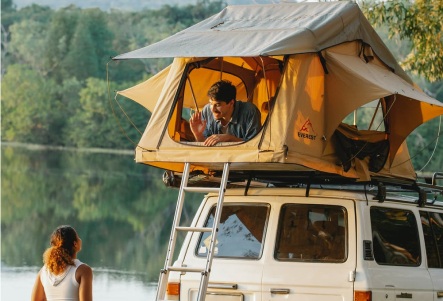
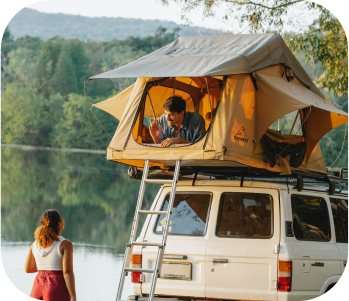
photo section ready

diff --git a/build/css/main.css b/build/css/main.css
@@ -204,9 +204,10 @@ select {
 
 .container {
   position: relative;
-  max-width: 1170px;
+  max-width: 1230px;
   width: 100%;
   margin: 0 auto;
+  padding: 0 30px;
 }
 .container-margin-top {
   margin-top: 135px;
@@ -218,12 +219,14 @@ select {
 }
 @media (max-width: 1024px) {
   .container {
-    max-width: 918px;
+    padding: 0 20px;
+    max-width: 958px;
   }
 }
 @media (max-width: 360px) {
   .container {
-    max-width: 318px;
+    padding: 0 21px;
+    max-width: 360px;
   }
 }
 
@@ -791,4 +794,103 @@ select {
     width: 318px;
   }
 }
[1 lines of base64/hex data omitted]
+.travel-photo__container {
+  display: flex;
+  flex-direction: column;
+  align-items: center;
+  max-width: 1920px;
+  text-align: center;
+}
+.travel-photo__subtitle {
+  width: 418px;
+}
+.travel-photo__list {
+  height: 963px;
+  margin-top: 100px;
+  display: flex;
+  flex-direction: column;
+  gap: 3.1152647975%;
+  width: 100%;
+}
+.travel-photo__list-line {
+  display: flex;
+  gap: 1.6129032258%;
+  justify-content: center;
+  height: 301px;
+}
+.travel-photo__item {
+  flex-grow: 0;
+  flex-shrink: 1;
+}
+.travel-photo__item_width_25 {
+  flex-basis: 23.7903225806%;
+}
+.travel-photo__item_width_2 {
+  flex-basis: 18.7095698925%;
+}
+.travel-photo__img {
+  width: 100%;
+  height: 100%;
+  border-radius: 50px;
+  object-fit: cover;
+  object-position: center;
+}
+@media (max-width: 1024px) {
+  .travel-photo .travel-photo__container {
+    max-width: 1024px;
+  }
+  .travel-photo .travel-photo__list {
+    gap: 3.1152647975%;
+  }
+  .travel-photo .travel-photo__list-line {
+    gap: 2.0325203252%;
+  }
+  .travel-photo .travel-photo__item_width_25 {
+    flex-basis: 31.9786585366%;
+  }
+  .travel-photo .travel-photo__item_width_2 {
+    flex-basis: 23.4756097561%;
+  }
+  .travel-photo .travel-photo__item_2, .travel-photo .travel-photo__item_7, .travel-photo .travel-photo__item_13 {
+    display: none;
+  }
+}
+@media (max-width: 700px) {
+  .travel-photo .travel-photo__subtitle {
+    width: 100%;
+  }
+  .travel-photo .travel-photo__container {
+    max-width: 360px;
+  }
+  .travel-photo .travel-photo__list {
+    margin-top: 50px;
+    height: 366px;
+    gap: 4.9180327869%;
+  }
+  .travel-photo .travel-photo__list-line {
+    height: 110px;
+    gap: 5.6603773585%;
+  }
+  .travel-photo .travel-photo__list-line_middle {
+    gap: 3.1446540881%;
+  }
+  .travel-photo .travel-photo__list-line_bottom {
+    gap: 3.1446540881%;
+  }
+  .travel-photo .travel-photo__img {
+    border-radius: 20px;
+  }
+  .travel-photo .travel-photo__item_width_25 {
+    flex-basis: 47.1698113208%;
+  }
+  .travel-photo .travel-photo__item_width_2 {
+    flex-basis: 31.2358490566%;
+  }
+  .travel-photo .travel-photo__item_10, .travel-photo .travel-photo__item_11 {
+    flex-basis: 48.427672956%;
+  }
+  .travel-photo .travel-photo__item_3, .travel-photo .travel-photo__item_6, .travel-photo .travel-photo__item_12 {
+    display: none;
+  }
+}
[1 lines of base64/hex data omitted]

diff --git a/build/index.html b/build/index.html
@@ -258,6 +258,63 @@
 				</div>
 			</section>
 
+			
+			<section class="travel-photo">
+				<div class="container container-margin-top travel-photo__container">
+					<h2 class="travel-photo__title h2 text-black">Фотографии путешествий</h2>
+					<p class="travel-photo__subtitle p-normal subtitle">Идейные соображения высшего порядка, а также рамки и место обучения кадров</p>
+					
+
+					<div class="travel-photo__list">
+						<div class="travel-photo__list-line">
+							<div class="travel-photo__item travel-photo__item_1 travel-photo__item_width_25">
+								<img src="../img/travel/travel photo-1.jpg" alt="travel photo-1" class="travel-photo__img">
+							</div>
+							<div class="travel-photo__item travel-photo__item_2 travel-photo__item_width_25">
+								<img src="../img/travel/travel photo-2.png" alt="travel photo-2" class="travel-photo__img">
+							</div>
+							<div class="travel-photo__item travel-photo__item_3 travel-photo__item_width_25">
+								<img src="../img/travel/travel photo-3.jpg" alt="travel photo-3" class="travel-photo__img">
+							</div>
+							<div class="travel-photo__item travel-photo__item_4 travel-photo__item_width_25">
+								<img src="../img/travel/travel photo-4.png" alt="travel photo-4" class="travel-photo__img">
+							</div>
+						</div>
+						<div class="travel-photo__list-line travel-photo__list-line_middle">
+							<div class="travel-photo__item travel-photo__item_5 travel-photo__item_width_2">
+								<img src="../img/travel/travel photo-5.png" alt="travel photo-5" class="travel-photo__img">
+							</div>
+							<div class="travel-photo__item travel-photo__item_6 travel-photo__item_width_2">
+								<img src="../img/travel/travel photo-6.png" alt="travel photo-6" class="travel-photo__img">
+							</div>
+							<div class="travel-photo__item travel-photo__item_7 travel-photo__item_width_2">
+								<img src="../img/travel/travel photo-7.png" alt="travel photo-7" class="travel-photo__img">
+							</div>
+							<div class="travel-photo__item travel-photo__item_8 travel-photo__item_width_2">
+								<img src="../img/travel/travel photo-8.jpg" alt="travel photo-8" class="travel-photo__img">
+							</div>
+							<div class="travel-photo__item travel-photo__item_9 travel-photo__item_width_2">
+								<img src="../img/travel/travel photo-9.jpg" alt="travel photo-9" class="travel-photo__img">
+							</div>
+						</div>
+						<div class="travel-photo__list-line travel-photo__list-line_bottom">
+							<div class="travel-photo__item travel-photo__item_10 travel-photo__item_width_25">
+								<img src="../img/travel/travel photo-10.png" alt="travel photo-10" class="travel-photo__img">
+							</div>
+							<div class="travel-photo__item travel-photo__item_11 travel-photo__item_width_25">
+								<img src="../img/travel/travel photo-11.png" alt="travel photo-11" class="travel-photo__img">
+							</div>
+							<div class="travel-photo__item travel-photo__item_12 travel-photo__item_width_25">
+								<img src="../img/travel/travel photo-12.png" alt="travel photo-12" class="travel-photo__img">
+							</div>
+							<div class="travel-photo__item travel-photo__item_13 travel-photo__item_width_25">
+								<img src="../img/travel/travel photo-13.png" alt="travel photo-13" class="travel-photo__img">
+							</div>
+						</div>
+						
+					</div>
+				</div>
+			</section>
 
 
 		</main>

diff --git a/src/html/index.html b/src/html/index.html
@@ -258,6 +258,63 @@
 				</div>
 			</section>
 
+			
+			<section class="travel-photo">
+				<div class="container container-margin-top travel-photo__container">
+					<h2 class="travel-photo__title h2 text-black">Фотографии путешествий</h2>
+					<p class="travel-photo__subtitle p-normal subtitle">Идейные соображения высшего порядка, а также рамки и место обучения кадров</p>
+					
+
+					<div class="travel-photo__list">
+						<div class="travel-photo__list-line">
+							<div class="travel-photo__item travel-photo__item_1 travel-photo__item_width_25">
+								<img src="../img/travel/travel photo-1.jpg" alt="travel photo-1" class="travel-photo__img">
+							</div>
+							<div class="travel-photo__item travel-photo__item_2 travel-photo__item_width_25">
+								<img src="../img/travel/travel photo-2.png" alt="travel photo-2" class="travel-photo__img">
+							</div>
+							<div class="travel-photo__item travel-photo__item_3 travel-photo__item_width_25">
+								<img src="../img/travel/travel photo-3.jpg" alt="travel photo-3" class="travel-photo__img">
+							</div>
+							<div class="travel-photo__item travel-photo__item_4 travel-photo__item_width_25">
+								<img src="../img/travel/travel photo-4.png" alt="travel photo-4" class="travel-photo__img">
+							</div>
+						</div>
+						<div class="travel-photo__list-line travel-photo__list-line_middle">
+							<div class="travel-photo__item travel-photo__item_5 travel-photo__item_width_2">
+								<img src="../img/travel/travel photo-5.png" alt="travel photo-5" class="travel-photo__img">
+							</div>
+							<div class="travel-photo__item travel-photo__item_6 travel-photo__item_width_2">
+								<img src="../img/travel/travel photo-6.png" alt="travel photo-6" class="travel-photo__img">
+							</div>
+							<div class="travel-photo__item travel-photo__item_7 travel-photo__item_width_2">
+								<img src="../img/travel/travel photo-7.png" alt="travel photo-7" class="travel-photo__img">
+							</div>
+							<div class="travel-photo__item travel-photo__item_8 travel-photo__item_width_2">
+								<img src="../img/travel/travel photo-8.jpg" alt="travel photo-8" class="travel-photo__img">
+							</div>
+							<div class="travel-photo__item travel-photo__item_9 travel-photo__item_width_2">
+								<img src="../img/travel/travel photo-9.jpg" alt="travel photo-9" class="travel-photo__img">
+							</div>
+						</div>
+						<div class="travel-photo__list-line travel-photo__list-line_bottom">
+							<div class="travel-photo__item travel-photo__item_10 travel-photo__item_width_25">
+								<img src="../img/travel/travel photo-10.png" alt="travel photo-10" class="travel-photo__img">
+							</div>
+							<div class="travel-photo__item travel-photo__item_11 travel-photo__item_width_25">
+								<img src="../img/travel/travel photo-11.png" alt="travel photo-11" class="travel-photo__img">
+							</div>
+							<div class="travel-photo__item travel-photo__item_12 travel-photo__item_width_25">
+								<img src="../img/travel/travel photo-12.png" alt="travel photo-12" class="travel-photo__img">
+							</div>
+							<div class="travel-photo__item travel-photo__item_13 travel-photo__item_width_25">
+								<img src="../img/travel/travel photo-13.png" alt="travel photo-13" class="travel-photo__img">
+							</div>
+						</div>
+						
+					</div>
+				</div>
+			</section>
 
 
 		</main>

diff --git a/src/sass/blocks/travel-photo.sass b/src/sass/blocks/travel-photo.sass
@@ -1,0 +1,101 @@
+.travel-photo
+    
+    $container_max-width: 1860px
+    $list-height: 963px
+
+    &__container
+        display: flex 
+        flex-direction: column
+        align-items: center
+        max-width: calc($container_max-width + 60px)
+        text-align: center
+    &__subtitle
+        width: 418px
+
+    
+    &__list
+        height: $list-height
+        margin-top: 100px
+        display: flex 
+        flex-direction: column
+        gap: calc(30px * 100% / $list-height) 
+        width: 100%
+        
+
+    &__list-line 
+        display: flex
+        gap: calc(30px * 100% / $container_max-width) 
+        justify-content: center
+        height: 301px
+    &__item
+        flex-grow: 0
+        flex-shrink: 1
+
+    &__item_width_25
+        flex-basis: calc(442.5px * 100% / $container_max-width)
+
+    &__item_width_2
+        flex-basis: calc(347.998px * 100% / $container_max-width)
+
+    &__img 
+        width: 100%
+        height: 100%
+        border-radius: 50px
+        object-fit: cover
+        object-position: center
+    
+    @media (max-width: 1024px)
+        .travel-photo  
+            $container_max-width: 984px
+            $list-height: 963px
+            &__container
+                max-width: calc($container_max-width + 40px)
+            &__list
+                gap: calc(30px * 100% / $list-height) 
+            &__list-line
+                gap: calc(20px * 100% / $container_max-width)
+
+
+            &__item_width_25
+                flex-basis: calc(314.67px * 100% / $container_max-width)
+            &__item_width_2
+                flex-basis: calc(231px * 100% / $container_max-width)
+                
+            &__item_2, &__item_7, &__item_13
+                display: none
+                
+    @media (max-width: 700px)
+        .travel-photo  
+            $container_max-width: 318px
+            $list-height: 366px
+            &__subtitle
+                width: 100%
+            &__container
+                max-width: calc($container_max-width + 42px)
+            &__list
+                margin-top: 50px
+                height: $list-height
+                gap: calc(18px * 100% / $list-height)  
+            &__list-line
+                height: 110px
+                gap: calc(18px * 100% / $container_max-width) 
+            &__list-line_middle
+                gap: calc(10px * 100% / $container_max-width) 
+            &__list-line_bottom
+                gap: calc(10px * 100% / $container_max-width) 
+
+
+            &__img 
+                border-radius: 20px
+
+            &__item_width_25
+                flex-basis: calc(150px * 100% / $container_max-width)
+            &__item_width_2
+                flex-basis: calc(99.33px * 100% / $container_max-width)
+            
+            &__item_10, &__item_11
+                flex-basis: calc(154px * 100% / $container_max-width)
+
+            &__item_3, &__item_6, &__item_12
+                display: none
+

diff --git a/src/sass/main.sass b/src/sass/main.sass
@@ -17,17 +17,20 @@ select
 
 .container
     position: relative
-    max-width: 1170px
+    max-width: calc(1170px + 60px)
     width: 100%
     margin: 0 auto
+    padding: 0 30px
     &-margin-top
         margin-top: 135px
         @media (max-width: 720px)
             margin-top: 76px
     @media (max-width:1024px )
-        max-width: 918px
+        padding: 0 20px
+        max-width: calc(918px + 40px)
     @media (max-width:360px )
-        max-width: 318px
+        padding: 0 21px
+        max-width: calc(318px + 42px)
 
     
 .subtitle
@@ -46,3 +49,5 @@ select
 @import ./blocks/collect-tour
 
 @import ./blocks/reviews
+
+@import ./blocks/travel-photo
